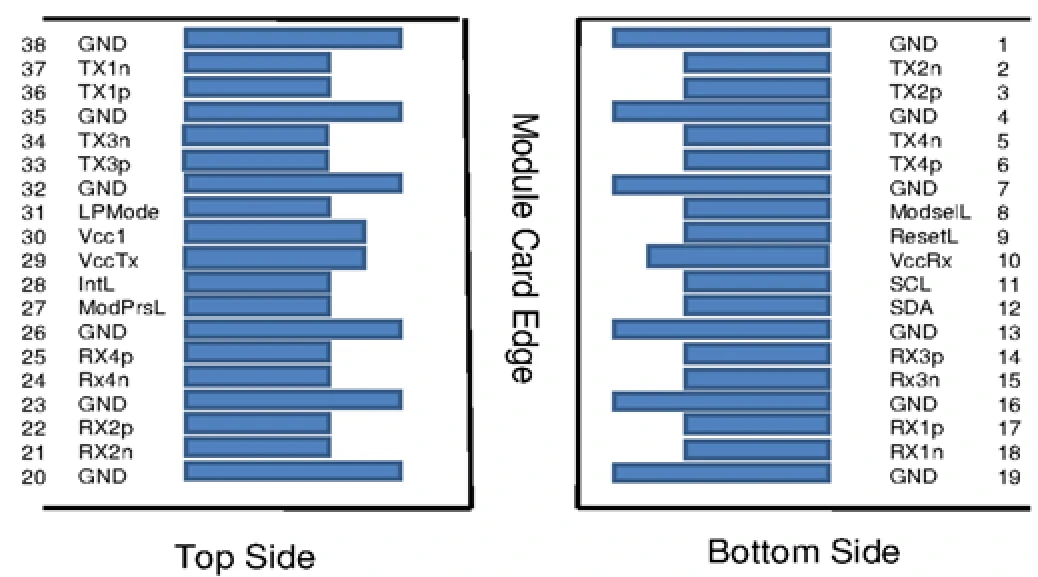
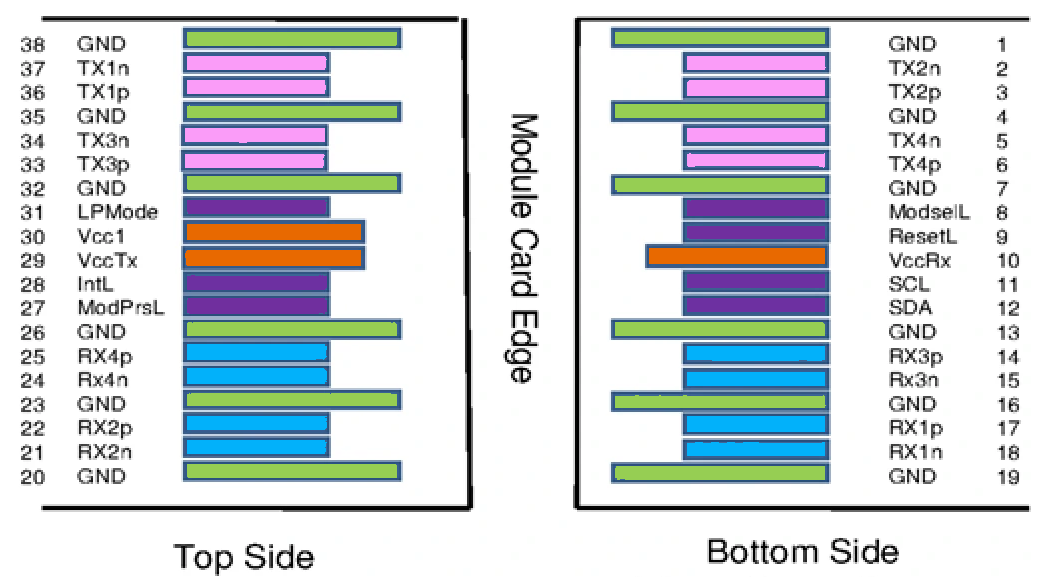
small improvement

diff --git a/docs/01_README_module.md b/docs/01_README_module.md
@@ -1,32 +1,32 @@
 # The Pluggable Transceiver Model
 
-Network switches are expensive, long-term investments. If a switch were built with permanently attached cables or a fixed media type, it would be incredibly inflexible. To solve this, the networking industry uses a pluggable architecture consisting of three distinct layers.
+Network switches are expensive, long-term investments. If a switch were built with permanently attached cables or a fixed media type, it would be operationally rigid and difficult to adapt. To address this, the networking industry uses a pluggable architecture consisting of three distinct layers.
 
-- **The Port (The Cage)**: This is the physical, empty slot built into the front panel of the switch chassis. It serves as a mechanical docking station and an electrical connector. It provides power, grounding, and a direct connection back to the switch's internal ASIC via the [SerDes lanes](https://github.com/ManiAm/net-lab-switch-serdes/blob/master/docs/02_README_serdes.md#serdes-and-lanes). The port is completely media agnostic. It does not care if you eventually use copper cables or fiber optics; it only provides a standardized electrical interface (like an SFP or QSFP slot).
+- **The Port (The Cage)**: This is the physical, empty slot built into the front panel of the switch chassis. It serves as a mechanical docking station and an electrical connector. It provides power, grounding, and a direct connection back to the switch's internal ASIC via the [SerDes lanes](https://github.com/ManiAm/net-lab-switch-serdes/blob/master/docs/02_README_serdes.md#serdes-and-lanes). The port is entirely media-agnostic — it is independent of whether copper or fiber optics will be deployed. It provides only a standardized electrical interface (such as an SFP or QSFP slot).
 
-- **The Transceiver (The Module)**: This is the hot-swappable metal module that you slide into the port. It is the "translator" of the system. It takes the raw, high-speed electrical signals from the switch and converts them into a format that can travel over your chosen cable. The transceiver dictates the rules of the connection. It determines the speed (e.g., 10G, 100G, 400G), the maximum distance (from 3 meters to 80 kilometers), and the physical medium (lasers for light, or drivers for copper).
+- **The Transceiver (The Module)**: This is the hot-swappable metal module that slides into the port. It acts as the translator of the system — accepting high-speed electrical signals from the switch and converting them into a format suitable for the chosen transmission medium. The transceiver defines the link parameters: speed (e.g., 10G, 100G, 400G), maximum distance (from 3 meters to 80 kilometers), and physical medium (lasers for fiber, or drivers for copper).
 
-- **The Cable**: This is the physical wire or fiber that plugs into the outside of the transceiver. It is simply the physical medium the signal travels across to reach the next device. It can be a fiber optic patch cable, a direct-attach copper cable (DAC), an active optical cable (AOC), or standard twisted-pair Ethernet cabling (Base-T).
+- **The Cable**: This is the physical wire or fiber that plugs into the outside of the transceiver. It is the medium over which the signal travels to reach the next device. Common types include fiber optic patch cables, direct-attach copper cables (DAC), active optical cables (AOC), and standard twisted-pair Ethernet cabling (Base-T).
 
-By separating the system into these three layers, a network engineer can buy one switch and use it for almost any scenario. A single switch can simultaneously connect to a server in the same rack using cheap copper, and a data center 10 miles away using long-range fiber optics, simply by mixing and matching modules and cables.
+By separating the system into these three layers, a network engineer can invest in a single switch platform and deploy it across a wide range of scenarios. The same switch can simultaneously connect to a server in the same rack using short-range copper, and to a remote data center using long-range fiber optics — simply by selecting the appropriate modules and cables for each port.
 
 <img src="../pics/tranceiver.png" alt="segment" width="700">
 
 
 ## Host Side vs. Media Side
 
-Now that we understand the pluggable model, we can zoom in on the Transceiver Module itself. Because it acts as a translator, it inherently has two distinct "faces" or interfaces.
+With the pluggable model established, the next step is to examine the Transceiver Module itself. Because it acts as a translator, it inherently has two distinct interfaces.
 
-- **The Host Side (The Electrical Side)**: This is the back end of the transceiver that faces inward, plugging directly into the switch's Port (Cage). It interacts exclusively with the switch's internal hardware. It receives power and connects directly to the ASIC's electrical SerDes lanes via traces printed on the switch's internal circuit board. The host side is strictly defined by its form factor. Whether the module transmits light over 40 kilometers of fiber or drives electrical signals across 3 meters of copper, the physical host-side connector plugging into the switch looks and behaves exactly the same.
+- **The Host Side (The Electrical Side)**: This is the back end of the transceiver, facing inward and plugging directly into the switch's Port (Cage). It interacts exclusively with the switch's internal hardware — receiving power and connecting to the ASIC's electrical SerDes lanes via traces on the switch's circuit board. The host side is strictly defined by its form factor. Whether the module transmits light over 40 kilometers of fiber or drives electrical signals across 3 meters of copper, the physical host-side connector is mechanically and electrically identical.
 
-- **The Media Side (The Line Side)**: This is the front face of the transceiver that faces outward toward the rest of the network. It connects to the external Cable. This is where the actual translation happens. If it is an optical module, this side houses laser diodes and photodetectors. If it is a copper module, it houses an RJ45 jack and electrical conditioning circuits.
+- **The Media Side (The Line Side)**: This is the front face of the transceiver, facing outward toward the network. It connects to the external cable and is where signal conversion occurs. For optical modules, this side houses laser diodes and photodetectors. For copper modules, it houses an RJ45 jack and electrical conditioning circuits.
 
 <img src="../pics/host-vs-media.png" alt="segment" width="1000">
 
 
 ## Form Factor
 
-Form factor defines both the physical size of the module and the number of high-speed electrical lanes (SerDes lanes) it exposes to the switch ASIC. As speeds increased over time, the industry scaled bandwidth by either increasing the per-lane data rate or by aggregating more lanes within a single module. Two main form factor families emerged to serve different markets: the **SFP / QSFP / OSFP** family for data center switching, and the **CFP** family for telecom and long-haul transport. This section covers both.
+Form factor defines both the physical size of the module and the number of high-speed electrical lanes (SerDes lanes) it exposes to the switch ASIC. As bandwidth demands grew, the industry scaled capacity by either increasing the per-lane data rate or aggregating more lanes within a single module. Two main form factor families emerged to serve different markets: the **SFP / QSFP / OSFP** family for data center switching, and the **CFP** family for telecom and long-haul transport. This section covers both.
 
 <img src="../pics/form-factors.png" alt="segment" width="650">
 
@@ -115,7 +115,7 @@ Once powered, the host must identify the module (vendor, serial number, capabili
 
 The CPU communicates with the module's internal Microcontroller over an I2C bus (`SCL` clock and `SDA` data lines shown at the top of the diagram). The remaining management pins provide hardware-level control and status:
 
-- `ModPrsL` — Module present (active low); the module asserts this pin to tell the host it is physically inserted.
+- `ModPrsL` — Module present (active low); the module asserts this pin to indicate physical insertion.
 - `ModSelL` — Module select (active low); the host asserts this pin to address this specific module on a shared I2C bus.
 - `ResetL` — Module reset (active low); the host can force a hardware reset.
 - `IntL / Rx LOSL` — Interrupt and RX loss-of-signal (active low); the module alerts the host to faults or state changes.
@@ -148,7 +148,7 @@ Modular optics are therefore the standard choice for structured data center cabl
 
 ### DAC (Direct Attach Copper)
 
-A "Direct Attach Copper" cable integrates the copper twinax cable and the transceiver heads into a single, permanently attached assembly. It plugs directly into SFP, QSFP, or OSFP ports without requiring separate modules. DACs are passive (most common for short reach) or active (for slightly longer distances), but both are designed primarily for short connections — typically 1 to 5 meters.
+A Direct Attach Copper cable integrates the copper twinax cable and the transceiver heads into a single, permanently attached assembly. It plugs directly into SFP, QSFP, or OSFP ports without requiring separate modules. DACs are either passive (more common, for shorter reach) or active (for slightly longer distances), but both are designed primarily for short connections — typically 1 to 5 meters.
 
 DACs are cost-effective and energy-efficient because they avoid optical conversion and laser components. They are widely used for intra-rack connections, such as connecting a top-of-rack switch to servers in the same cabinet. However, copper attenuation increases quickly with length, limiting practical distance and cable manageability compared to fiber.
 
@@ -156,7 +156,7 @@ DACs are cost-effective and energy-efficient because they avoid optical conversi
 
 ### AOC (Active Optical Cable)
 
-An "Active Optical Cable" combines fiber and optical transceivers into a single, factory-assembled unit. Unlike DAC, the signal is converted to light inside the fixed module heads, and the integrated fiber cable carries the optical signal between endpoints. AOCs are available in lengths from 1 m to 100 m, giving them a significant reach advantage over DAC. They are also lighter and more flexible than copper twinax, making them easier to route through dense cable trays.
+An Active Optical Cable combines fiber and optical transceivers into a single, factory-assembled unit. Unlike DAC, the signal is converted to light inside the fixed module heads, and the integrated fiber cable carries the optical signal between endpoints. AOCs are available in lengths from 1 m to 100 m, giving them a significant reach advantage over DAC. They are also lighter and more flexible than copper twinax, making them easier to route through dense cable trays.
 
 Because the optical engines are permanently attached, the entire cable assembly must be replaced if one end fails. AOCs offer a balance between the simplicity of DAC and the reach advantages of modular optics. They are commonly used for rack-to-rack connections within the same row or adjacent rows in data centers, particularly in the 5–30 m range where DAC cannot reach but deploying separate transceivers and fiber is not justified.
 
@@ -181,7 +181,7 @@ Optical transceiver reach codes define the operational class of a module. Each c
 - Relative power and thermal profile
 - Intended deployment environment
 
-These standards allow network designers to quickly determine whether a module is appropriate for short intra-rack links, large data center fabrics, or long-haul interconnects between buildings or cities.
+These classifications allow network designers to determine whether a module is appropriate for short intra-rack links, large data center fabrics, or long-haul interconnects between buildings or cities.
 
 | Acronym | Full Name              | Distance (Reach)   | Fiber Mode    | Typical Connector | Power Draw | Primary Use Case                            |
 | ------: | ---------------------- | ------------------ | ------------- | ----------------- | ---------- | ------------------------------------------- |
@@ -280,19 +280,41 @@ In a modular optical setup, the transceiver and fiber cable are separate compone
 
 ## Loopback Module
 
-A loopback module is a special test device that physically resembles a standard pluggable transceiver but does not transmit data over any external medium. Instead, it internally routes the transmit (TX) signals directly back to the receive (RX) inputs. Whatever the switch sends out is immediately returned to its own receiver lanes, allowing engineers to test and validate ports without external cables, optics, or remote equipment.
+A loopback module is a test device packaged in a standard MSA-compliant transceiver housing. It has no media-side interface — no fiber connector, no cable, and no external medium. Instead, it internally routes the host's transmit (TX) signals directly back to the receive (RX) inputs within the module. The switch's own transmitted data is returned to its receiver lanes, allowing engineers to test and validate ports without external cables, optics, or remote equipment.
 
 Loopback modules are available in two types:
 
-- **Electrical loopback**: A passive device that routes the host's electrical TX signals directly back to the RX pins within the module housing. It requires no power and introduces no optical conversion. This is the most common and least expensive type, suitable for verifying port functionality, SerDes lane integrity, and basic link-up behavior.
+- **Electrical loopback**: Routes the host's electrical TX signals directly back to the RX pins through passive or active trace paths inside the module housing. No optical conversion is involved. This is the most common and least expensive type, suitable for verifying port functionality, SerDes lane integrity, and basic link-up behavior.
 
 - **Optical loopback**: Contains active optical components (laser and photodetector) that convert the electrical TX signal to light and then immediately convert it back to an electrical RX signal — all within the module. These are used to test the full electro-optical path including the laser driver and TIA, but are more expensive and less common for routine testing.
 
+### Attenuation Option
+
+In a real deployment, signals always experience loss as they travel through cables and connectors. A 0 dB loopback returns the signal at full strength — ideal for basic port bring-up and link verification. However, this does not test whether the receiver can handle a weakened signal as it would in production.
+
+Loopback modules are available with selectable attenuation values (e.g., 0 dB, 3 dB, 6 dB, 10 dB) that deliberately reduce the returned signal amplitude. Higher attenuation simulates longer cable runs or lossier channels, forcing the SerDes equalizer and receiver front-end to work harder to recover the data. This allows engineers to measure receiver sensitivity margins and verify that the port still achieves acceptable bit error rates under realistic or worst-case signal conditions.
+
+### Power Consumption Option
+
+A purely passive loopback draws no power from the host, which means the port's power delivery circuitry, voltage regulators, and thermal management are never exercised. In production and R&D validation, this is insufficient — the switch must prove it can sustain full electrical and thermal load across all ports simultaneously.
+
+Loopback modules with a power consumption option include internal resistive loads that draw a specified wattage (e.g., 3.0 W or 3.5 W) from the host's Vcc supply. This forces the port to deliver and dissipate power as if a real transceiver were installed, exercising the power delivery network, validating per-port current capacity, and generating realistic thermal conditions for fan speed and heat sink testing. The power draw also ensures that adjacent ports can all operate at rated power without voltage drooping below specification.
+
+### Vendor Compatibility
+
+Like production transceivers, loopback modules contain an EEPROM that reports vendor identification, serial number, and module type to the host over the I2C management interface. Many enterprise switches (Cisco, Juniper, Arista, etc.) check this vendor field and may reject or disable ports with unrecognized modules. Loopback modules are therefore sold in vendor-specific variants — for example, a "Cisco Compatible" loopback is programmed with the vendor codes that Cisco's software expects, ensuring the port initializes normally and reports correct status. When purchasing loopback modules, the target switch platform must be specified to ensure the EEPROM coding matches.
+
+### Insertion Cycle Rating
+
+Production transceivers are typically installed once and left in place for years. Loopback modules, by contrast, are repeatedly inserted and removed as they are rotated across dozens or hundreds of ports during test campaigns. Manufacturers rate loopback modules for a minimum number of mating cycles (commonly > 500 insertions). The MSA-compliant connector and housing are designed to withstand this repeated mechanical stress without degrading contact resistance or alignment.
+
+### Use Cases
+
 Loopback modules are available for all standard form factors including SFP+, SFP28, QSFP+, QSFP28, QSFP-DD, and OSFP. They are primarily used in:
 
-- **Port bring-up and manufacturing test**: Verifying that each port on a new or refurbished switch functions correctly before deployment.
+- **R&D validation**: Verifying SerDes performance, power delivery, and thermal behavior across all ports under controlled conditions.
+- **Production testing**: Confirming that each port on a newly manufactured switch functions correctly before shipment.
 - **Field troubleshooting**: Isolating whether a link failure is caused by the local port, the remote port, or the cable between them.
-- **Systematic port validation**: Testing all ports on a switch without needing a matching number of cables and remote devices.
 
 
 ## Optical Integration Architectures